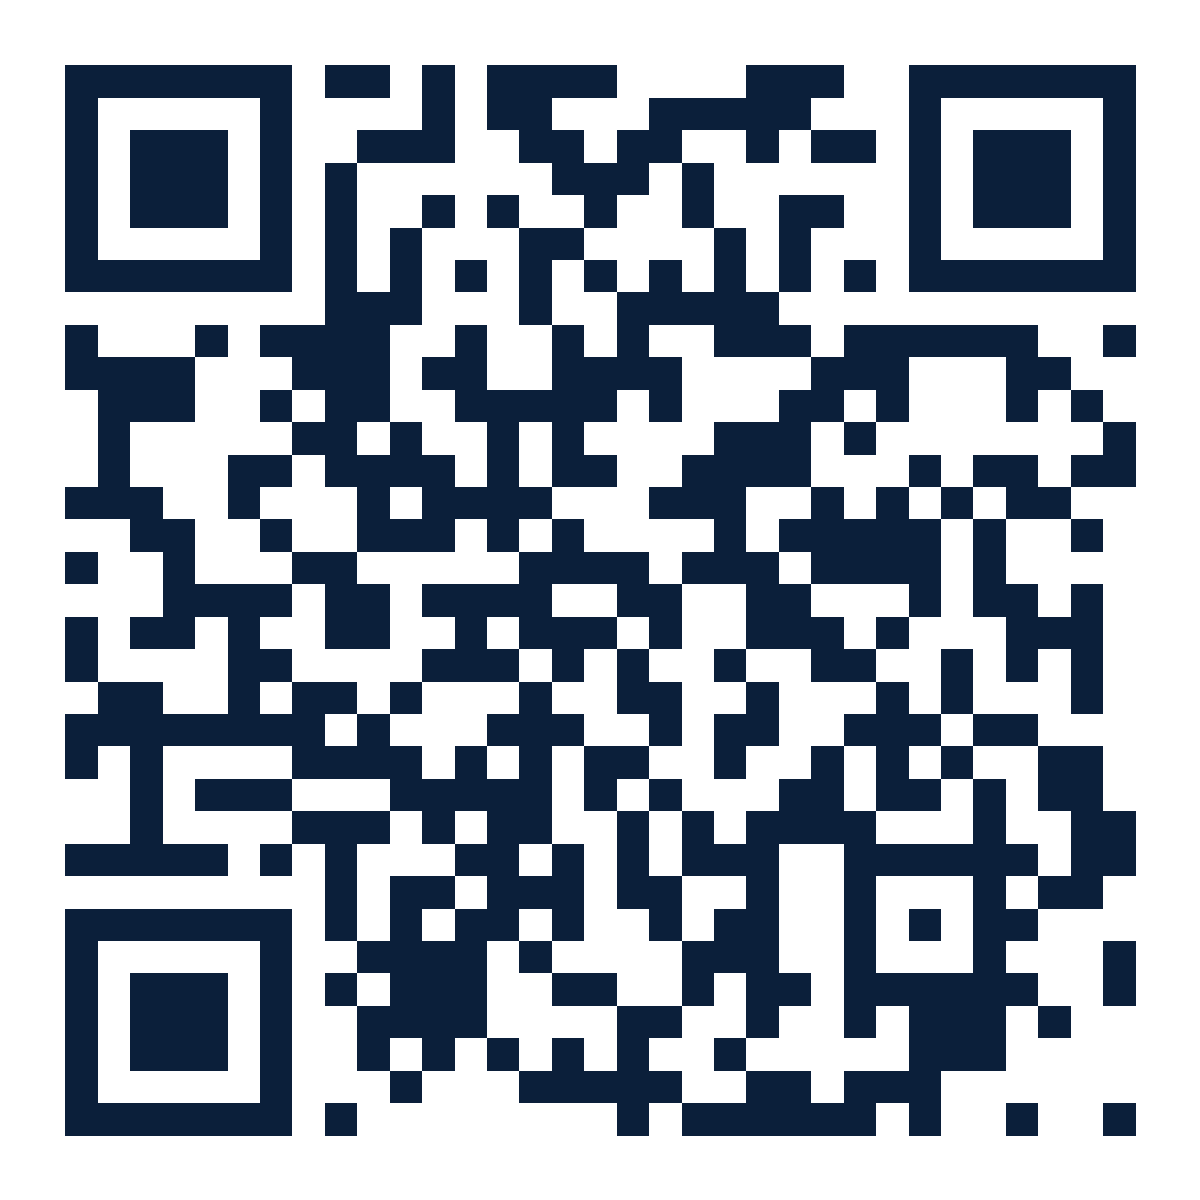
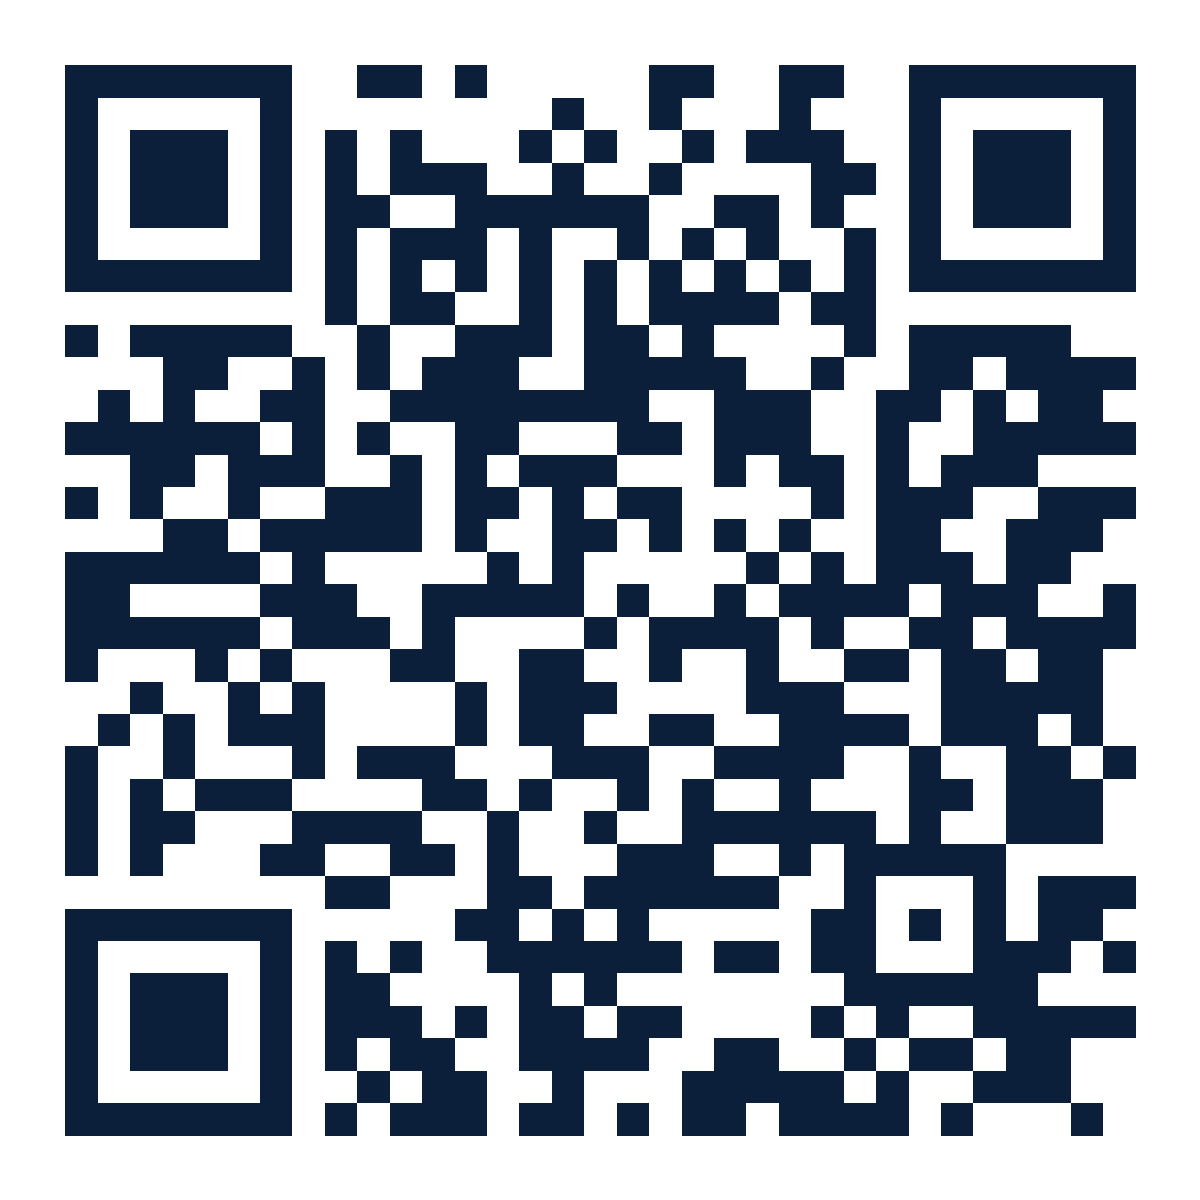
Publicación en GitHub Pages: QR con URL definitiva y CI sin descarga de navegadores
Claude-Session: https://claude.ai/code/session_01JSs2wisztudSsxsaGq2RSY

diff --git a/docs/CONTINUAR.md b/docs/CONTINUAR.md
@@ -28,8 +28,9 @@ secuencia-constructiva, clash-bim y ojo-ingeniero.
 - [x] Docs: MARCADORES, MODELOS, SUPABASE, PUBLICAR.
 
 ## Pendiente (en orden sugerido)
-- [ ] **Push a GitHub** (requiere que Juan Carlos cree el repo y vincule GitHub en claude.ai).
-  Luego Settings → Pages → Source: GitHub Actions. Ver docs/PUBLICAR.md.
+- [x] **Repositorio en GitHub**: https://github.com/jcnmop/ldcv-busqueda-tesoro-ar
+- [x] **Publicado en GitHub Pages**: https://jcnmop.github.io/ldcv-busqueda-tesoro-ar/
+  (se republica solo en cada push a main). QR en `public/qr-inicio.png`.
 - [ ] **Primera prueba en celular real** (`npm run dev`, URL de red, marcador en pantalla o
   impreso). Lo que NO se pudo validar aquí y hay que mirar en el teléfono:
   - escala y posición de los objetos 3D sobre el marcador (ajustar tamaños en `crearObjeto`);
